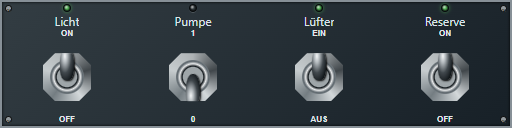
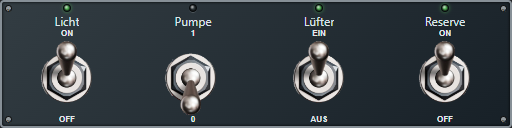
Document transparent industrial toggle artwork

diff --git a/docs/projects/grafik-visual-studio/industrial.md b/docs/projects/grafik-visual-studio/industrial.md
@@ -83,7 +83,7 @@ Ab Paket **0.2.0** und Studio **0.1.232** stehen ein bis vier unabhängig bedien
 
 ![Vier Industrie-Kippschalter mit kleinen LEDs und drei Schildvarianten](/images/grafik-visual-studio/industrial-switches.png)
 
-*Runtime mit Beispieldaten: eigene Beschriftungen, grüne LEDs und Schilder ON/OFF, 1/0 und EIN/AUS. Metallhebel und LED sind eigenständige CSS-Zeichnungen.*
+*Runtime mit Beispieldaten: eigene Beschriftungen, grüne LEDs und Schilder ON/OFF, 1/0 und EIN/AUS. Ab Studio 0.1.233 stammt der Metallhebel aus der von rockbaer2007 bereitgestellten transparenten PNG und ist in beiden Stellungen vollständig sichtbar. Die LED bleibt eine CSS-Zeichnung. Das Studio-Update genügt; Paket 0.2.0 muss nicht erneut installiert werden.*
 
 Jeder Bereich **Schalter 1** bis **Schalter 4** enthält eine feste **Beschriftung**, **Schildbeschriftung** mit **ON/OFF**, **1/0** oder **EIN/AUS**, Startzustand und eigene LED-Farben für Ein und Aus. Die LED liegt oberhalb der Beschriftung; die Schildtexte ändern sich nicht durch Entitäten. Schriftgröße und Schriftfarbe stehen unter **Beschriftung**.
 

diff --git a/docs/en/projects/grafik-visual-studio/industrial.md b/docs/en/projects/grafik-visual-studio/industrial.md
@@ -83,7 +83,7 @@ Package **0.2.0** and Studio **0.1.232** add one to four independently controlle
 
 ![Four industrial toggle switches with small LEDs and three plate legends](/images/grafik-visual-studio/industrial-switches.png)
 
-*Runtime with example data: custom captions, green LEDs and ON/OFF, 1/0 and EIN/AUS plates. The metallic levers and LEDs use original CSS artwork.*
+*Runtime with example data: custom captions, green LEDs and ON/OFF, 1/0 and EIN/AUS plates. Since Studio 0.1.233, the metallic lever uses the transparent PNG supplied by rockbaer2007 and is fully visible in both positions. The LED remains CSS artwork. Updating Studio is sufficient; package 0.2.0 does not need reinstalling.*
 
 Each **Switch 1** through **Switch 4** group has a static **Caption**, **Plate legend** with **ON/OFF**, **1/0** or **EIN/AUS**, initial state and individual LED on/off colors. The LED sits above the caption; entities never change the plate text. Font size and color are available under **Caption**.
 
